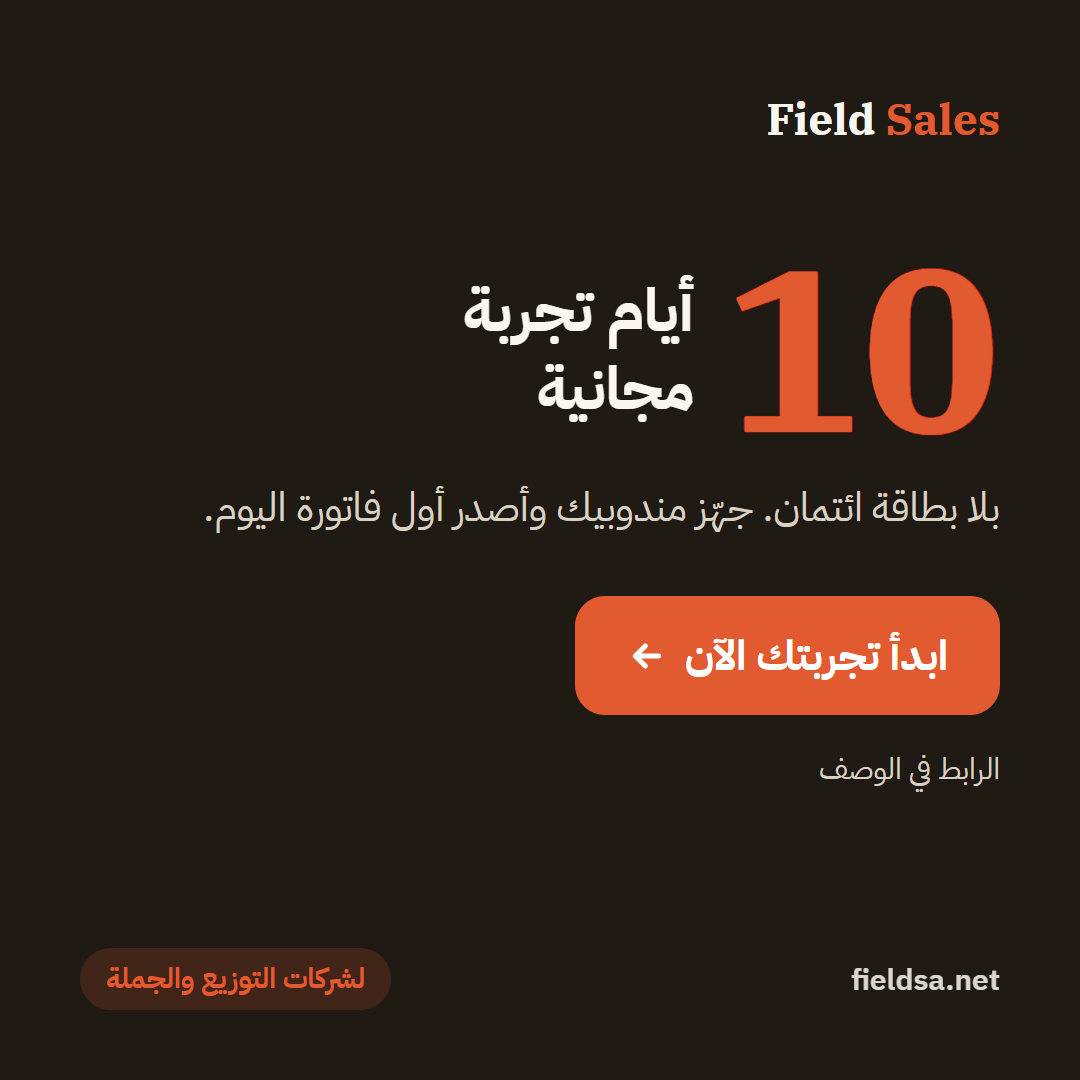
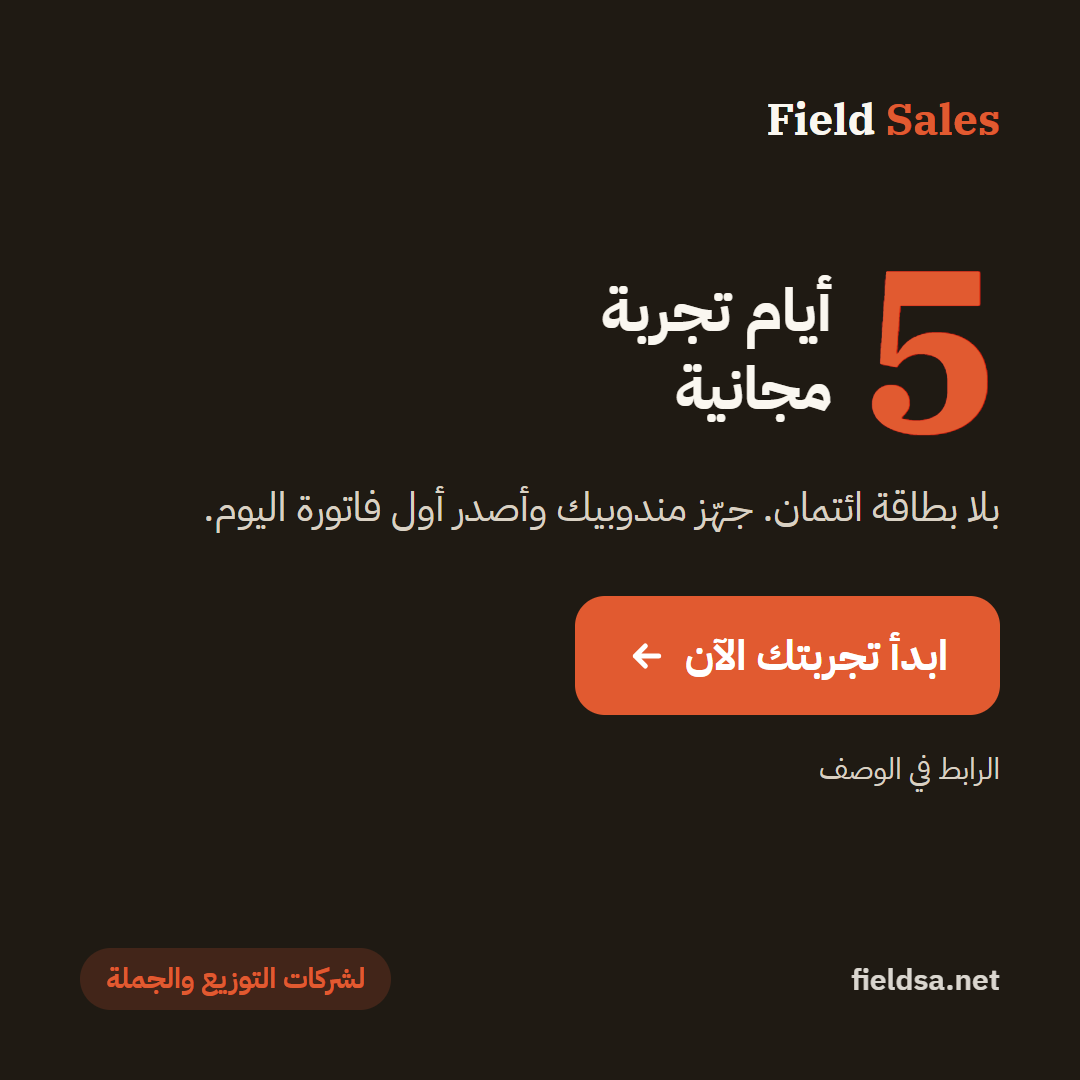
سفير: مدة التجربة ٥ أيام في مواد السفير — صور الحقيبة الجاهزة ورسائلها وشرح «اعرف النظام» (طلب المالك ١٩ نوفمبر؛ تعديل المنصة نفسها في جلسة أخرى)

Changed region(s): [[0.4278, 0.2444, 0.9472, 0.4278]]

diff --git a/web-admin/src/affiliate/i18n.ts b/web-admin/src/affiliate/i18n.ts
@@ -618,11 +618,11 @@ const DICT = {
   },
   'guide.s8.t': { ar: 'كيف تعرضه على العميل؟', en: 'How to present it to a client', fr: 'Comment le présenter au client', tr: 'Müşteriye nasıl sunulur?', zh: '如何向客户介绍' },
   'guide.s8.b': {
-    ar: 'ابدأ بمشكلته لا بالمزايا: نقدٌ يضيع مع المندوبين، أو لا يعرف أين مندوبوه، أو فواتير ورقية، أو التزام الفوترة الإلكترونية.\nاعرض الجزء الذي يحلّ مشكلته، ثم اقترح التجربة المجانية ١٠ أيام — تفتحها له من تبويب «افتح حساباً تجريبياً» فتُحسب لك.\nالأسعار في تبويب «الأسعار»، وللأسئلة التقنية تواصل مع الدعم.',
-    en: 'Start with the client’s problem, not the features: cash lost with reps, not knowing where the reps are, paper invoices, or the e-invoicing obligation.\nShow the part that solves it, then suggest the free 10-day trial — open it for them from the “Open a trial account” tab so it counts for you.\nPrices are in the “Pricing” tab, and for technical questions contact support.',
-    fr: 'Partez du problème du client, pas des fonctionnalités : argent perdu avec les commerciaux, ne pas savoir où ils sont, factures papier ou obligation de facturation électronique.\nMontrez la partie qui le résout, puis proposez l’essai gratuit de 10 jours — ouvrez-le pour lui depuis l’onglet « Ouvrir un compte d’essai » pour qu’il vous soit attribué.\nLes prix sont dans l’onglet « Tarifs », et pour les questions techniques, contactez l’assistance.',
-    tr: 'Özelliklerle değil müşterinin sorunuyla başlayın: temsilcilerde kaybolan nakit, temsilcilerin nerede olduğunu bilmemek, kâğıt faturalar veya e-fatura zorunluluğu.\nSorunu çözen bölümü gösterin, sonra 10 günlük ücretsiz denemeyi önerin — size sayılması için “Deneme hesabı aç” sekmesinden onun adına açın.\nFiyatlar “Fiyatlar” sekmesindedir; teknik sorular için destekle iletişime geçin.',
-    zh: '从客户的问题入手，而不是功能：业务员手上的现金流失、不知道业务员在哪里、纸质发票，或电子发票的合规要求。\n展示能解决问题的部分，然后建议 10 天免费试用——在“开通试用账户”标签中为客户开通，即可计入您的推荐。\n价格见“价格”标签，技术问题请联系支持团队。',
+    ar: 'ابدأ بمشكلته لا بالمزايا: نقدٌ يضيع مع المندوبين، أو لا يعرف أين مندوبوه، أو فواتير ورقية، أو التزام الفوترة الإلكترونية.\nاعرض الجزء الذي يحلّ مشكلته، ثم اقترح التجربة المجانية ٥ أيام — تفتحها له من تبويب «افتح حساباً تجريبياً» فتُحسب لك.\nالأسعار في تبويب «الأسعار»، وللأسئلة التقنية تواصل مع الدعم.',
+    en: 'Start with the client’s problem, not the features: cash lost with reps, not knowing where the reps are, paper invoices, or the e-invoicing obligation.\nShow the part that solves it, then suggest the free 5-day trial — open it for them from the “Open a trial account” tab so it counts for you.\nPrices are in the “Pricing” tab, and for technical questions contact support.',
+    fr: 'Partez du problème du client, pas des fonctionnalités : argent perdu avec les commerciaux, ne pas savoir où ils sont, factures papier ou obligation de facturation électronique.\nMontrez la partie qui le résout, puis proposez l’essai gratuit de 5 jours — ouvrez-le pour lui depuis l’onglet « Ouvrir un compte d’essai » pour qu’il vous soit attribué.\nLes prix sont dans l’onglet « Tarifs », et pour les questions techniques, contactez l’assistance.',
+    tr: 'Özelliklerle değil müşterinin sorunuyla başlayın: temsilcilerde kaybolan nakit, temsilcilerin nerede olduğunu bilmemek, kâğıt faturalar veya e-fatura zorunluluğu.\nSorunu çözen bölümü gösterin, sonra 5 günlük ücretsiz denemeyi önerin — size sayılması için “Deneme hesabı aç” sekmesinden onun adına açın.\nFiyatlar “Fiyatlar” sekmesindedir; teknik sorular için destekle iletişime geçin.',
+    zh: '从客户的问题入手，而不是功能：业务员手上的现金流失、不知道业务员在哪里、纸质发票，或电子发票的合规要求。\n展示能解决问题的部分，然后建议 5 天免费试用——在“开通试用账户”标签中为客户开通，即可计入您的推荐。\n价格见“价格”标签，技术问题请联系支持团队。',
   },
   'guide.s9.t': { ar: 'ما لا تَعِد به', en: 'What not to promise', fr: 'Ce qu’il ne faut pas promettre', tr: 'Neleri vaat etmemeli', zh: '不要承诺的内容' },
   'guide.s9.b': {
